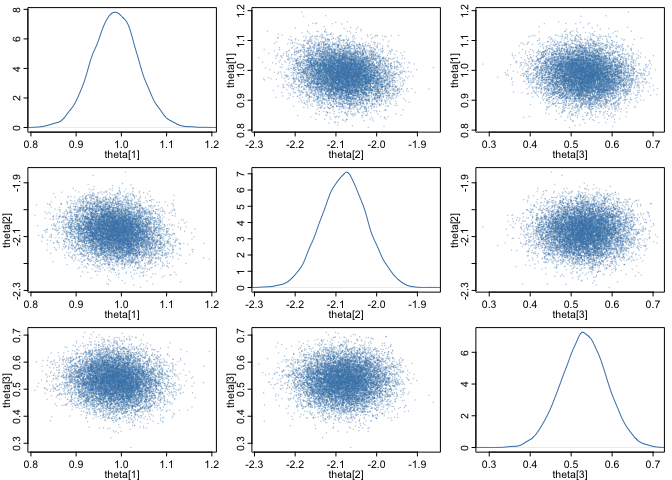
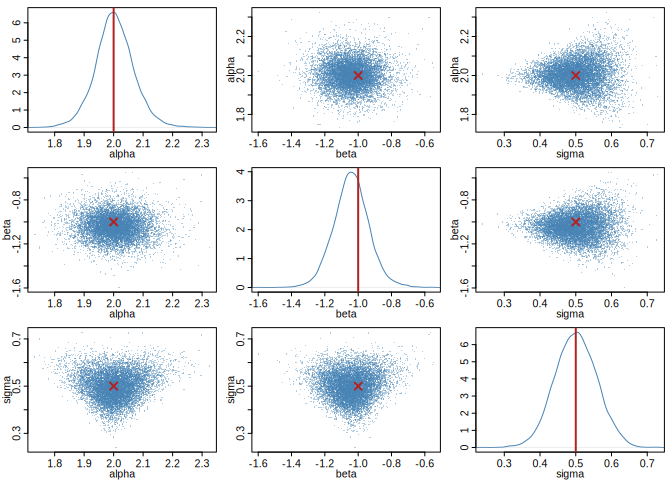
Deploying to gh-pages from @ pedroliman/neuralsbi@f3736a38ed835669d55cef55d3a60eb1c9e5d1a5 🚀

diff --git a/index.html b/index.html
@@ -95,45 +95,50 @@
 <div class="section level2">
 <h2 id="usage">Usage<a class="anchor" aria-label="anchor" href="#usage"></a>
 </h2>
-<p>Simulation-based inference recovers parameters from a model you can simulate but whose likelihood you would rather not write down. To make that concrete, here is a plain linear regression, <code>y = X beta + noise</code>. We know the answer (ordinary least squares), so we can check that the posterior lands on the truth.</p>
+<p>Simulation-based inference fits a posterior from a prior and a simulator, with no likelihood required. To keep the setup familiar, here is ordinary linear regression written as a simulator: a response <code>y</code> scattered around a line, <code>y ~ Normal(alpha + beta * x, sigma)</code> — the same model you might write in Stan. Its likelihood is easy to write down, which is exactly what makes it a good check: we know the coefficients that generated the data, so we can confirm the posterior recovers them.</p>
 <div class="sourceCode" id="cb2"><pre class="downlit sourceCode r">
 <code class="sourceCode R"><span><span class="kw"><a href="https://rdrr.io/r/base/library.html" class="external-link">library</a></span><span class="op">(</span><span class="va"><a href="https://pedroliman.github.io/neuralsbi/">neuralsbi</a></span><span class="op">)</span></span>
 <span><span class="fu"><a href="https://rdrr.io/r/base/Random.html" class="external-link">set.seed</a></span><span class="op">(</span><span class="fl">1</span><span class="op">)</span></span>
 <span></span>
-<span><span class="co"># A linear regression: intercept + two covariates, 100 observations.</span></span>
-<span><span class="va">N</span> <span class="op">&lt;-</span> <span class="fl">100</span></span>
-<span><span class="va">X</span> <span class="op">&lt;-</span> <span class="fu"><a href="https://rdrr.io/r/base/cbind.html" class="external-link">cbind</a></span><span class="op">(</span><span class="fl">1</span>, <span class="fu"><a href="https://rdrr.io/r/base/matrix.html" class="external-link">matrix</a></span><span class="op">(</span><span class="fu"><a href="https://rdrr.io/r/stats/Normal.html" class="external-link">rnorm</a></span><span class="op">(</span><span class="va">N</span> <span class="op">*</span> <span class="fl">2</span><span class="op">)</span>, <span class="va">N</span>, <span class="fl">2</span><span class="op">)</span><span class="op">)</span>   <span class="co"># design matrix</span></span>
-<span><span class="va">beta_true</span> <span class="op">&lt;-</span> <span class="fu"><a href="https://rdrr.io/r/base/c.html" class="external-link">c</a></span><span class="op">(</span><span class="fl">1</span>, <span class="op">-</span><span class="fl">2</span>, <span class="fl">0.5</span><span class="op">)</span>                  <span class="co"># the coefficients to recover</span></span>
-<span><span class="va">sigma</span> <span class="op">&lt;-</span> <span class="fl">0.5</span>                                <span class="co"># noise standard deviation</span></span>
+<span><span class="co"># Regression design: a single covariate x, measured at 50 fixed points.</span></span>
+<span><span class="va">N</span> <span class="op">&lt;-</span> <span class="fl">50</span></span>
+<span><span class="va">x</span> <span class="op">&lt;-</span> <span class="fu"><a href="https://rdrr.io/r/base/seq.html" class="external-link">seq</a></span><span class="op">(</span><span class="op">-</span><span class="fl">1</span>, <span class="fl">1</span>, length.out <span class="op">=</span> <span class="va">N</span><span class="op">)</span></span>
 <span></span>
-<span><span class="co"># Simulator: given coefficients, simulate a data set and summarise it by the</span></span>
-<span><span class="co"># least-squares fit. Those fitted coefficients are the "data" the posterior sees.</span></span>
-<span><span class="va">fit_ols</span>   <span class="op">&lt;-</span> <span class="kw">function</span><span class="op">(</span><span class="va">y</span><span class="op">)</span> <span class="fu"><a href="https://rdrr.io/r/stats/lmfit.html" class="external-link">lm.fit</a></span><span class="op">(</span><span class="va">X</span>, <span class="va">y</span><span class="op">)</span><span class="op">$</span><span class="va">coefficients</span></span>
+<span><span class="co"># Simulator: given rows of (alpha, beta, sigma), draw one response vector y each</span></span>
+<span><span class="co"># from y ~ Normal(alpha + beta * x, sigma). Fully vectorised over the rows of</span></span>
+<span><span class="co"># theta, and it only generates data — no fitting happens here.</span></span>
 <span><span class="va">simulator</span> <span class="op">&lt;-</span> <span class="kw">function</span><span class="op">(</span><span class="va">theta</span><span class="op">)</span> <span class="op">{</span></span>
-<span>  <span class="fu"><a href="https://rdrr.io/r/base/t.html" class="external-link">t</a></span><span class="op">(</span><span class="fu"><a href="https://rdrr.io/r/base/apply.html" class="external-link">apply</a></span><span class="op">(</span><span class="va">theta</span>, <span class="fl">1</span>, <span class="kw">function</span><span class="op">(</span><span class="va">beta</span><span class="op">)</span> <span class="fu">fit_ols</span><span class="op">(</span><span class="va">X</span> <span class="op"><a href="https://rdrr.io/r/base/matmult.html" class="external-link">%*%</a></span> <span class="va">beta</span> <span class="op">+</span> <span class="fu"><a href="https://rdrr.io/r/stats/Normal.html" class="external-link">rnorm</a></span><span class="op">(</span><span class="va">N</span>, sd <span class="op">=</span> <span class="va">sigma</span><span class="op">)</span><span class="op">)</span><span class="op">)</span><span class="op">)</span></span>
+<span>  <span class="va">alpha</span> <span class="op">&lt;-</span> <span class="va">theta</span><span class="op">[</span>, <span class="fl">1</span><span class="op">]</span></span>
+<span>  <span class="va">beta</span>  <span class="op">&lt;-</span> <span class="va">theta</span><span class="op">[</span>, <span class="fl">2</span><span class="op">]</span></span>
+<span>  <span class="va">sigma</span> <span class="op">&lt;-</span> <span class="va">theta</span><span class="op">[</span>, <span class="fl">3</span><span class="op">]</span></span>
+<span>  <span class="va">mu</span> <span class="op">&lt;-</span> <span class="fu"><a href="https://rdrr.io/r/base/outer.html" class="external-link">outer</a></span><span class="op">(</span><span class="va">beta</span>, <span class="va">x</span><span class="op">)</span> <span class="op">+</span> <span class="va">alpha</span>                       <span class="co"># row i is the line alpha_i + beta_i * x</span></span>
+<span>  <span class="va">mu</span> <span class="op">+</span> <span class="fu"><a href="https://rdrr.io/r/base/matrix.html" class="external-link">matrix</a></span><span class="op">(</span><span class="fu"><a href="https://rdrr.io/r/stats/Normal.html" class="external-link">rnorm</a></span><span class="op">(</span><span class="fu"><a href="https://rdrr.io/r/base/length.html" class="external-link">length</a></span><span class="op">(</span><span class="va">mu</span><span class="op">)</span><span class="op">)</span>, <span class="fu"><a href="https://rdrr.io/r/base/nrow.html" class="external-link">nrow</a></span><span class="op">(</span><span class="va">mu</span><span class="op">)</span><span class="op">)</span> <span class="op">*</span> <span class="va">sigma</span>   <span class="co"># add row-specific Gaussian noise</span></span>
 <span><span class="op">}</span></span>
 <span></span>
-<span><span class="co"># Prior over the three coefficients, then train the neural posterior.</span></span>
-<span><span class="va">prior</span> <span class="op">&lt;-</span> <span class="fu"><a href="reference/prior_uniform.html">prior_uniform</a></span><span class="op">(</span>low <span class="op">=</span> <span class="fu"><a href="https://rdrr.io/r/base/rep.html" class="external-link">rep</a></span><span class="op">(</span><span class="op">-</span><span class="fl">3</span>, <span class="fl">3</span><span class="op">)</span>, high <span class="op">=</span> <span class="fu"><a href="https://rdrr.io/r/base/rep.html" class="external-link">rep</a></span><span class="op">(</span><span class="fl">3</span>, <span class="fl">3</span><span class="op">)</span><span class="op">)</span></span>
-<span><span class="va">fit</span>   <span class="op">&lt;-</span> <span class="fu"><a href="reference/npe.html">npe</a></span><span class="op">(</span><span class="va">prior</span>, <span class="va">simulator</span>, n_simulations <span class="op">=</span> <span class="fl">3000</span><span class="op">)</span></span>
+<span><span class="co"># Priors over the intercept, slope, and noise scale, then train the posterior.</span></span>
+<span><span class="va">prior</span> <span class="op">&lt;-</span> <span class="fu"><a href="reference/prior_uniform.html">prior_uniform</a></span><span class="op">(</span>low <span class="op">=</span> <span class="fu"><a href="https://rdrr.io/r/base/c.html" class="external-link">c</a></span><span class="op">(</span><span class="op">-</span><span class="fl">3</span>, <span class="op">-</span><span class="fl">3</span>, <span class="fl">0.1</span><span class="op">)</span>, high <span class="op">=</span> <span class="fu"><a href="https://rdrr.io/r/base/c.html" class="external-link">c</a></span><span class="op">(</span><span class="fl">3</span>, <span class="fl">3</span>, <span class="fl">2</span><span class="op">)</span><span class="op">)</span></span>
+<span><span class="va">fit</span>   <span class="op">&lt;-</span> <span class="fu"><a href="reference/npe.html">npe</a></span><span class="op">(</span><span class="va">prior</span>, <span class="va">simulator</span>, n_simulations <span class="op">=</span> <span class="fl">10000</span>, seed <span class="op">=</span> <span class="fl">1</span><span class="op">)</span></span>
 <span></span>
-<span><span class="co"># Observe one data set generated from beta_true, then infer the coefficients.</span></span>
-<span><span class="va">y_obs</span> <span class="op">&lt;-</span> <span class="va">X</span> <span class="op"><a href="https://rdrr.io/r/base/matmult.html" class="external-link">%*%</a></span> <span class="va">beta_true</span> <span class="op">+</span> <span class="fu"><a href="https://rdrr.io/r/stats/Normal.html" class="external-link">rnorm</a></span><span class="op">(</span><span class="va">N</span>, sd <span class="op">=</span> <span class="va">sigma</span><span class="op">)</span></span>
-<span><span class="va">post</span>  <span class="op">&lt;-</span> <span class="fu"><a href="reference/posterior.html">posterior</a></span><span class="op">(</span><span class="va">fit</span>, x_obs <span class="op">=</span> <span class="fu">fit_ols</span><span class="op">(</span><span class="va">y_obs</span><span class="op">)</span><span class="op">)</span></span>
-<span><span class="va">draws</span> <span class="op">&lt;-</span> <span class="fu"><a href="reference/sample.html">sample</a></span><span class="op">(</span><span class="va">post</span>, <span class="fl">10000</span><span class="op">)</span></span></code></pre></div>
-<p>The posterior mean recovers the ground-truth coefficients:</p>
+<span><span class="co"># Simulate one data set from known coefficients, then infer them back. The</span></span>
+<span><span class="co"># observation the posterior conditions on is the response vector y.</span></span>
+<span><span class="va">theta_true</span> <span class="op">&lt;-</span> <span class="fu"><a href="https://rdrr.io/r/base/c.html" class="external-link">c</a></span><span class="op">(</span>alpha <span class="op">=</span> <span class="fl">2</span>, beta <span class="op">=</span> <span class="op">-</span><span class="fl">1</span>, sigma <span class="op">=</span> <span class="fl">0.5</span><span class="op">)</span></span>
+<span><span class="fu"><a href="https://rdrr.io/r/base/Random.html" class="external-link">set.seed</a></span><span class="op">(</span><span class="fl">38</span><span class="op">)</span>                       <span class="co"># a fixed, representative data set</span></span>
+<span><span class="va">y_obs</span>      <span class="op">&lt;-</span> <span class="fu">simulator</span><span class="op">(</span><span class="fu"><a href="https://rdrr.io/r/base/cbind.html" class="external-link">rbind</a></span><span class="op">(</span><span class="va">theta_true</span><span class="op">)</span><span class="op">)</span></span>
+<span><span class="va">post</span>       <span class="op">&lt;-</span> <span class="fu"><a href="reference/posterior.html">posterior</a></span><span class="op">(</span><span class="va">fit</span>, x_obs <span class="op">=</span> <span class="va">y_obs</span><span class="op">)</span></span>
+<span><span class="va">draws</span>      <span class="op">&lt;-</span> <span class="fu"><a href="reference/sample.html">sample</a></span><span class="op">(</span><span class="va">post</span>, <span class="fl">10000</span><span class="op">)</span></span></code></pre></div>
+<p>The posterior mean recovers the coefficients that generated the data:</p>
 <div class="sourceCode" id="cb3"><pre class="downlit sourceCode r">
-<code class="sourceCode R"><span><span class="fu"><a href="https://rdrr.io/r/base/cbind.html" class="external-link">rbind</a></span><span class="op">(</span>truth <span class="op">=</span> <span class="va">beta_true</span>, posterior_mean <span class="op">=</span> <span class="fu"><a href="https://rdrr.io/r/base/colSums.html" class="external-link">colMeans</a></span><span class="op">(</span><span class="va">draws</span><span class="op">)</span><span class="op">)</span></span>
-<span><span class="co">#&gt;                     [,1]      [,2]      [,3]</span></span>
-<span><span class="co">#&gt; truth          1.0000000 -2.000000 0.5000000</span></span>
-<span><span class="co">#&gt; posterior_mean 0.9862805 -2.080193 0.5313938</span></span></code></pre></div>
+<code class="sourceCode R"><span><span class="fu"><a href="https://rdrr.io/r/base/cbind.html" class="external-link">rbind</a></span><span class="op">(</span>truth <span class="op">=</span> <span class="va">theta_true</span>, posterior_mean <span class="op">=</span> <span class="fu"><a href="https://rdrr.io/r/base/colSums.html" class="external-link">colMeans</a></span><span class="op">(</span><span class="va">draws</span><span class="op">)</span><span class="op">)</span></span>
+<span><span class="co">#&gt;                   alpha      beta     sigma</span></span>
+<span><span class="co">#&gt; truth          2.000000 -1.000000 0.5000000</span></span>
+<span><span class="co">#&gt; posterior_mean 2.003668 -1.041009 0.5003288</span></span></code></pre></div>
 <div class="sourceCode" id="cb4"><pre class="downlit sourceCode r">
-<code class="sourceCode R"><span><span class="fu"><a href="reference/pairplot.html">pairplot</a></span><span class="op">(</span><span class="va">draws</span><span class="op">)</span>     <span class="co"># joint and marginal views of the posterior</span></span></code></pre></div>
-<p><img src="reference/figures/README-pairplot-1.png" alt="Pairwise posterior over the three regression coefficients." width="100%"></p>
-<p>The same posterior supports point estimates and calibration checks:</p>
+<code class="sourceCode R"><span><span class="fu"><a href="reference/pairplot.html">pairplot</a></span><span class="op">(</span><span class="va">draws</span>, truth <span class="op">=</span> <span class="va">theta_true</span>, labels <span class="op">=</span> <span class="fu"><a href="https://rdrr.io/r/base/c.html" class="external-link">c</a></span><span class="op">(</span><span class="st">"alpha"</span>, <span class="st">"beta"</span>, <span class="st">"sigma"</span><span class="op">)</span><span class="op">)</span></span></code></pre></div>
+<p><img src="reference/figures/README-pairplot-1.png" alt="Pairwise posterior over the regression intercept, slope, and noise scale." width="100%"></p>
+<p>The same posterior gives a point estimate; calibration checks such as simulation-based calibration live in <code><a href="articles/diagnostics.html">vignette("diagnostics")</a></code>.</p>
 <div class="sourceCode" id="cb5"><pre class="downlit sourceCode r">
 <code class="sourceCode R"><span><span class="fu"><a href="reference/map_estimate.html">map_estimate</a></span><span class="op">(</span><span class="va">post</span><span class="op">)</span>     <span class="co"># posterior mode</span></span>
-<span><span class="fu"><a href="reference/sbc.html">sbc</a></span><span class="op">(</span><span class="va">fit</span>, <span class="va">simulator</span><span class="op">)</span>    <span class="co"># simulation-based calibration</span></span></code></pre></div>
+<span><span class="co">#&gt; [1]  1.9989619 -1.0442036  0.4702335</span></span></code></pre></div>
 <p>If you’re interested in sbi in other languages or functionality not available here, see the <a href="https://github.com/smsharma/awesome-neural-sbi" class="external-link">awesome neural SBI repo</a>; there are some good implementations in python and in Julia.</p>
 </div>
 <div class="section level2">

diff --git a/index.md b/index.md
@@ -20,64 +20,74 @@ torch::install_torch()
 
 ## Usage
 
-Simulation-based inference recovers parameters from a model you can
-simulate but whose likelihood you would rather not write down. To make
-that concrete, here is a plain linear regression, `y = X beta + noise`.
-We know the answer (ordinary least squares), so we can check that the
-posterior lands on the truth.
+Simulation-based inference fits a posterior from a prior and a
+simulator, with no likelihood required. To keep the setup familiar, here
+is ordinary linear regression written as a simulator: a response `y`
+scattered around a line, `y ~ Normal(alpha + beta * x, sigma)` — the
+same model you might write in Stan. Its likelihood is easy to write
+down, which is exactly what makes it a good check: we know the
+coefficients that generated the data, so we can confirm the posterior
+recovers them.
 
 ``` r
 
 library(neuralsbi)
 set.seed(1)
 
-# A linear regression: intercept + two covariates, 100 observations.
-N <- 100
-X <- cbind(1, matrix(rnorm(N * 2), N, 2))   # design matrix
-beta_true <- c(1, -2, 0.5)                  # the coefficients to recover
-sigma <- 0.5                                # noise standard deviation
+# Regression design: a single covariate x, measured at 50 fixed points.
+N <- 50
+x <- seq(-1, 1, length.out = N)
 
-# Simulator: given coefficients, simulate a data set and summarise it by the
-# least-squares fit. Those fitted coefficients are the "data" the posterior sees.
-fit_ols   <- function(y) lm.fit(X, y)$coefficients
+# Simulator: given rows of (alpha, beta, sigma), draw one response vector y each
+# from y ~ Normal(alpha + beta * x, sigma). Fully vectorised over the rows of
+# theta, and it only generates data — no fitting happens here.
 simulator <- function(theta) {
-  t(apply(theta, 1, function(beta) fit_ols(X %*% beta + rnorm(N, sd = sigma))))
+  alpha <- theta[, 1]
+  beta  <- theta[, 2]
+  sigma <- theta[, 3]
+  mu <- outer(beta, x) + alpha                       # row i is the line alpha_i + beta_i * x
+  mu + matrix(rnorm(length(mu)), nrow(mu)) * sigma   # add row-specific Gaussian noise
 }
 
-# Prior over the three coefficients, then train the neural posterior.
-prior <- prior_uniform(low = rep(-3, 3), high = rep(3, 3))
-fit   <- npe(prior, simulator, n_simulations = 3000)
+# Priors over the intercept, slope, and noise scale, then train the posterior.
+prior <- prior_uniform(low = c(-3, -3, 0.1), high = c(3, 3, 2))
+fit   <- npe(prior, simulator, n_simulations = 10000, seed = 1)
 
-# Observe one data set generated from beta_true, then infer the coefficients.
-y_obs <- X %*% beta_true + rnorm(N, sd = sigma)
-post  <- posterior(fit, x_obs = fit_ols(y_obs))
-draws <- sample(post, 10000)
+# Simulate one data set from known coefficients, then infer them back. The
+# observation the posterior conditions on is the response vector y.
+theta_true <- c(alpha = 2, beta = -1, sigma = 0.5)
+set.seed(38)                       # a fixed, representative data set
+y_obs      <- simulator(rbind(theta_true))
+post       <- posterior(fit, x_obs = y_obs)
+draws      <- sample(post, 10000)
 ```
 
-The posterior mean recovers the ground-truth coefficients:
+The posterior mean recovers the coefficients that generated the data:
 
 ``` r
 
-rbind(truth = beta_true, posterior_mean = colMeans(draws))
-#>                     [,1]      [,2]      [,3]
-#> truth          1.0000000 -2.000000 0.5000000
-#> posterior_mean 0.9862805 -2.080193 0.5313938
+rbind(truth = theta_true, posterior_mean = colMeans(draws))
+#>                   alpha      beta     sigma
+#> truth          2.000000 -1.000000 0.5000000
+#> posterior_mean 2.003668 -1.041009 0.5003288
 ```
 
 ``` r
 
-pairplot(draws)     # joint and marginal views of the posterior
+pairplot(draws, truth = theta_true, labels = c("alpha", "beta", "sigma"))
 ```
 
-![Pairwise posterior over the three regression
-coefficients.](reference/figures/README-pairplot-1.png)
+![Pairwise posterior over the regression intercept, slope, and noise
+scale.](reference/figures/README-pairplot-1.png)
 
-The same posterior supports point estimates and calibration checks:
+The same posterior gives a point estimate; calibration checks such as
+simulation-based calibration live in
+[`vignette("diagnostics")`](https://pedroliman.github.io/neuralsbi/articles/diagnostics.md).
 
 ``` r
 
 map_estimate(post)     # posterior mode
-sbc(fit, simulator)    # simulation-based calibration
+#> [1]  1.9989619 -1.0442036  0.4702335
 ```
 
 If you’re interested in sbi in other languages or functionality not